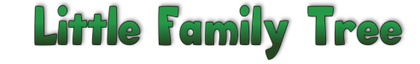
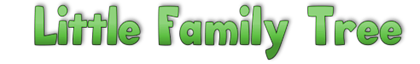
website updates

Changed region(s): [[0.3714, 0.0625, 0.7119, 0.9375], [0.0619, 0.0625, 0.3405, 0.7188], [0.7119, 0.0938, 0.9595, 0.7188]]

diff --git a/website/index.html b/website/index.html
@@ -82,12 +82,12 @@
                         An iOS version will be available in early 2016.
                     </p>
                     <p>
-                        <a href="https://play.google.com/store/apps/details?id=com.yellowforktech.littlefamilytree.com.yellowforktech.littlefamilytree.littlefamilytree1">
+                        <a class="small-margin" href="https://play.google.com/store/apps/details?id=com.yellowforktech.littlefamilytree.com.yellowforktech.littlefamilytree.littlefamilytree1">
                             <img alt="Android app on Google Play" width="180"
                                  src="googel-play-badge.png" />
                         </a>
 
-                        <a href="http://www.amazon.com/gp/product/B014FPGQJO">
+                        <a class="small-margin" href="http://www.amazon.com/gp/product/B014FPGQJO">
                             <img alt="Android app on Amazon App Store" width="160"
                                  src="amazon-underground-app-us-black.png" />
                         </a>
@@ -98,7 +98,7 @@
                 <div class="col-sm-7 text-center">
 					<img src="little_family_tree.png" class="logo-text-img" />
 					<p>&nbsp;</p>
-                    <h2>Introducing the youngest minds to their heritage</h2>
+                    <h3>Introducing the youngest minds to their heritage</h3>
                 </div>
             </div>
 
@@ -128,24 +128,22 @@
                 Little Family Tree won 3rd place in the Children's category of the 2015
                 <a target="_blank" href="https://tech.lds.org/blog/729-winners-announced-for-the-gospel-app-a-game-contest">LDSTech App and Game contest.</a>
             </p>
-			<p>&nbsp;</p>
-			<p>&nbsp;</p>
+			<hr />
 				<p>
 					Personal family history information is obtained by having an adult login to an online family tree such as
 					<a href="http://www.familyearch.org">FamilySearch</a> or <a href="http://www.phpgedview.net">PhpGedView</a>.
 					An online family tree account is required to play the game but a <a href="http://www.familyearch.org">FamilySearch</a>
 					account can be obtained for free at <a href="http://www.familyearch.org">FamilySearch.org</a>.
 				</p>
-
 				<p>&nbsp;</p>
 				<div class="row">
 					<div class="col text-center">
 						<button type="button" onclick="window.location='familysearch.html'; return false;"
-								class="btn btn-primary">Learn more about our<br />FamilySearch
+								class="btn btn-primary small-margin">Learn more about our<br />FamilySearch
 							integration.</button>
 					&nbsp;&nbsp;
 						<a target="_blank" href="https://familysearch.org/apps/product/littlefamilytree/android">
-							<img class="fsicon" src="FS-Certified.png" border="0"/>
+							<img class="fsicon small-margin" src="FS-Certified.png" border="0"/>
 						</a>
 					</div>
 				</div>

diff --git a/website/littlefamily.css b/website/littlefamily.css
@@ -21,6 +21,11 @@ section {
     font-weight: bold;
 }
 
+.small-margin {
+	display: inline-block;
+	margin-top: 3px;
+}
+
 .beta {
 	font-weight: bold;
 }
@@ -48,7 +53,7 @@ header .header-content, section .container, section .container-fluid{
 .logo-text-img {
 	margin-top: 33%;
 	width: 100%;
-	max-width: 500px;
+	max-width: 600px;
 }
 .bg-dark {
     background-color: darkblue;
@@ -284,5 +289,8 @@ header .header-content, section .container, section .container-fluid{
     }
 	.logo-text-img {
 		margin-top: 20px;
+	}
+	header h3 {
+		font-size: 20px;
 	}
 }
